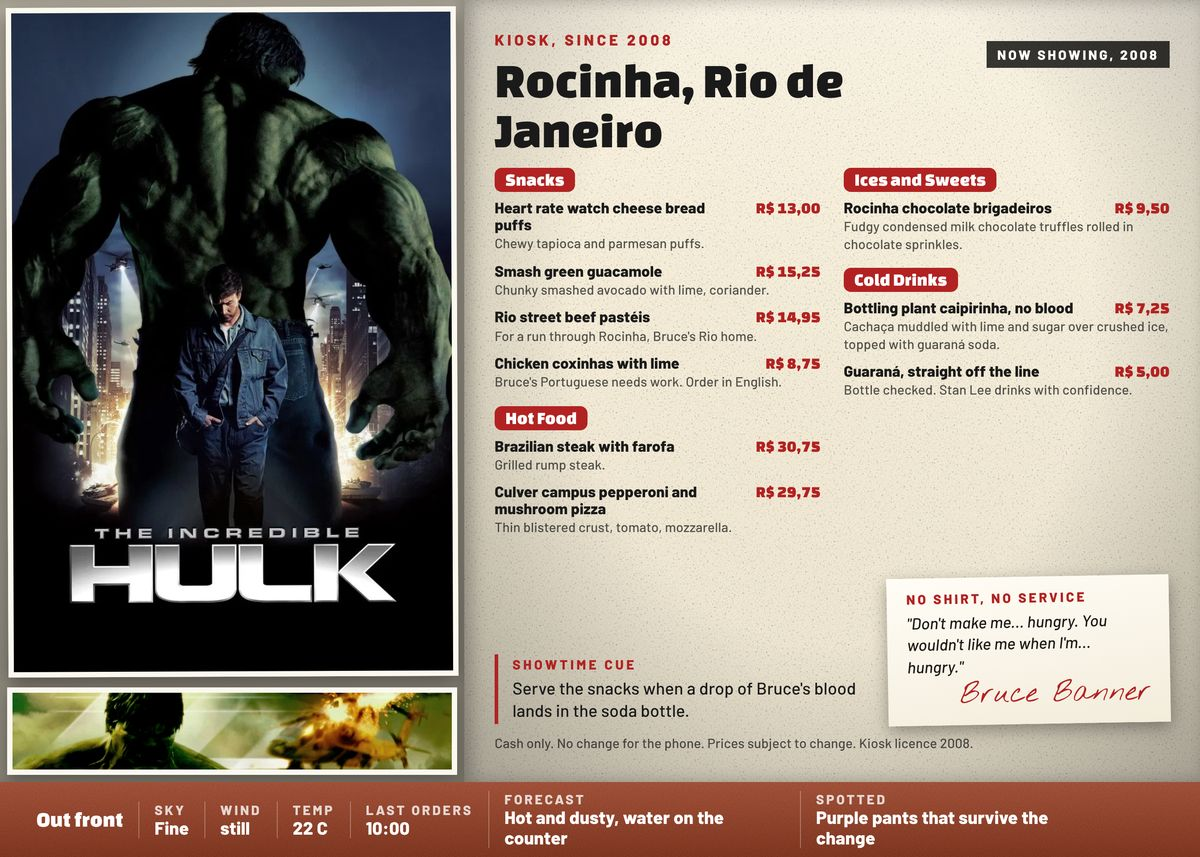
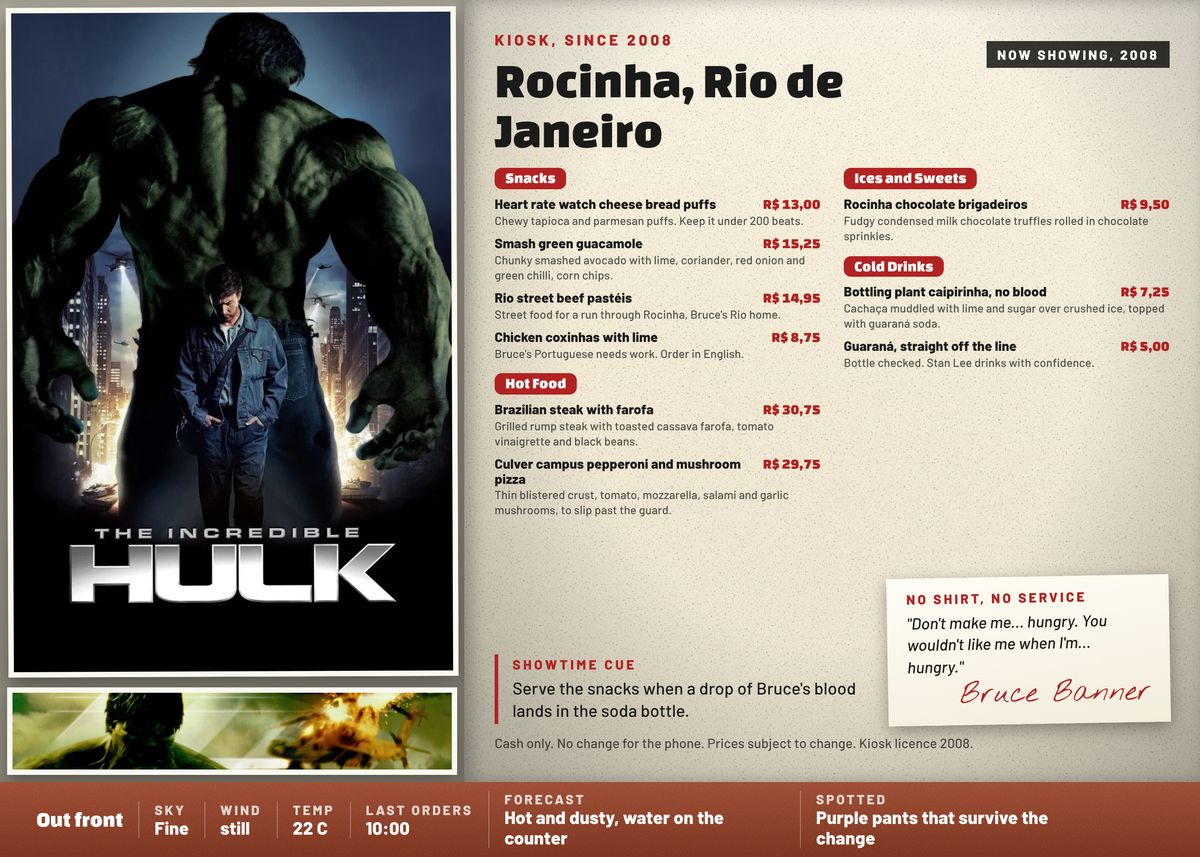
Review 32: kiosk tries whole notes first
Claude-Session: https://claude.ai/code/session_01W3UAnF3374TxihYSznsWKE

Changed region(s): [[0.4008, 0.182, 0.9867, 0.6371]]

diff --git a/menu-formats/kiosk.js b/menu-formats/kiosk.js
@@ -383,8 +383,10 @@ const numPrice=(!String(fl.number||"").replace(/\D/g,"")||/^(18|19|20)\d\d$/.tes
   let FS=null;
   /* the film's notes come first: try every size with two-line then one-line notes before any size without them */
   /* 15 Nov, Josh: a short menu grows to fill its board (Karate Kid left a gap under the list at the old 1.17 top size) */
-  outer:for(const nl of [2,1,0])for(let s=nl===2?1.5:1.17;s>=(nl?.6:.55);s-=.05){
-    const base={D:Math.max(17,Math.round(28*s)),N:Math.max(15,Math.round(21*s)),S:Math.max(20,Math.round(30*s)),G:Math.max(4,Math.round(16*s))};
+  /* review 32 (Josh: room for full notes, not cuts): whole notes (up to four lines) at every size, down to 12px notes, before any cut */
+  /* the card is 1344 across for landscape A4, so 14px notes print at about 9 point and 13px (the second whole-note pass) at about 8 */
+  outer:for(const [nl,nf] of [[4,14],[4,13],[2,15],[1,15],[0,15]])for(let s=nl>=2?1.5:1.17;s>=(nl===4?.42:nl?.6:.55);s-=.05){
+    const base={D:Math.max(nl===4?nf+2:17,Math.round(28*s)),N:Math.max(nf,Math.round(21*s)),S:Math.max(nl===4?nf+4:20,Math.round(30*s)),G:Math.max(nl===4?3:4,Math.round(16*s))};
     {const FSx=Object.assign({},base,{nl});
       let best=null;for(const sp of splits){const t=Math.max(...sp.map(cs=>measure(cs,FSx)));if(!best||t<best.t)best={t,sp}}if(best.t<=MH){FS=Object.assign(FSx,{t:best.t});colsArr=best.sp;break outer}}
   }
